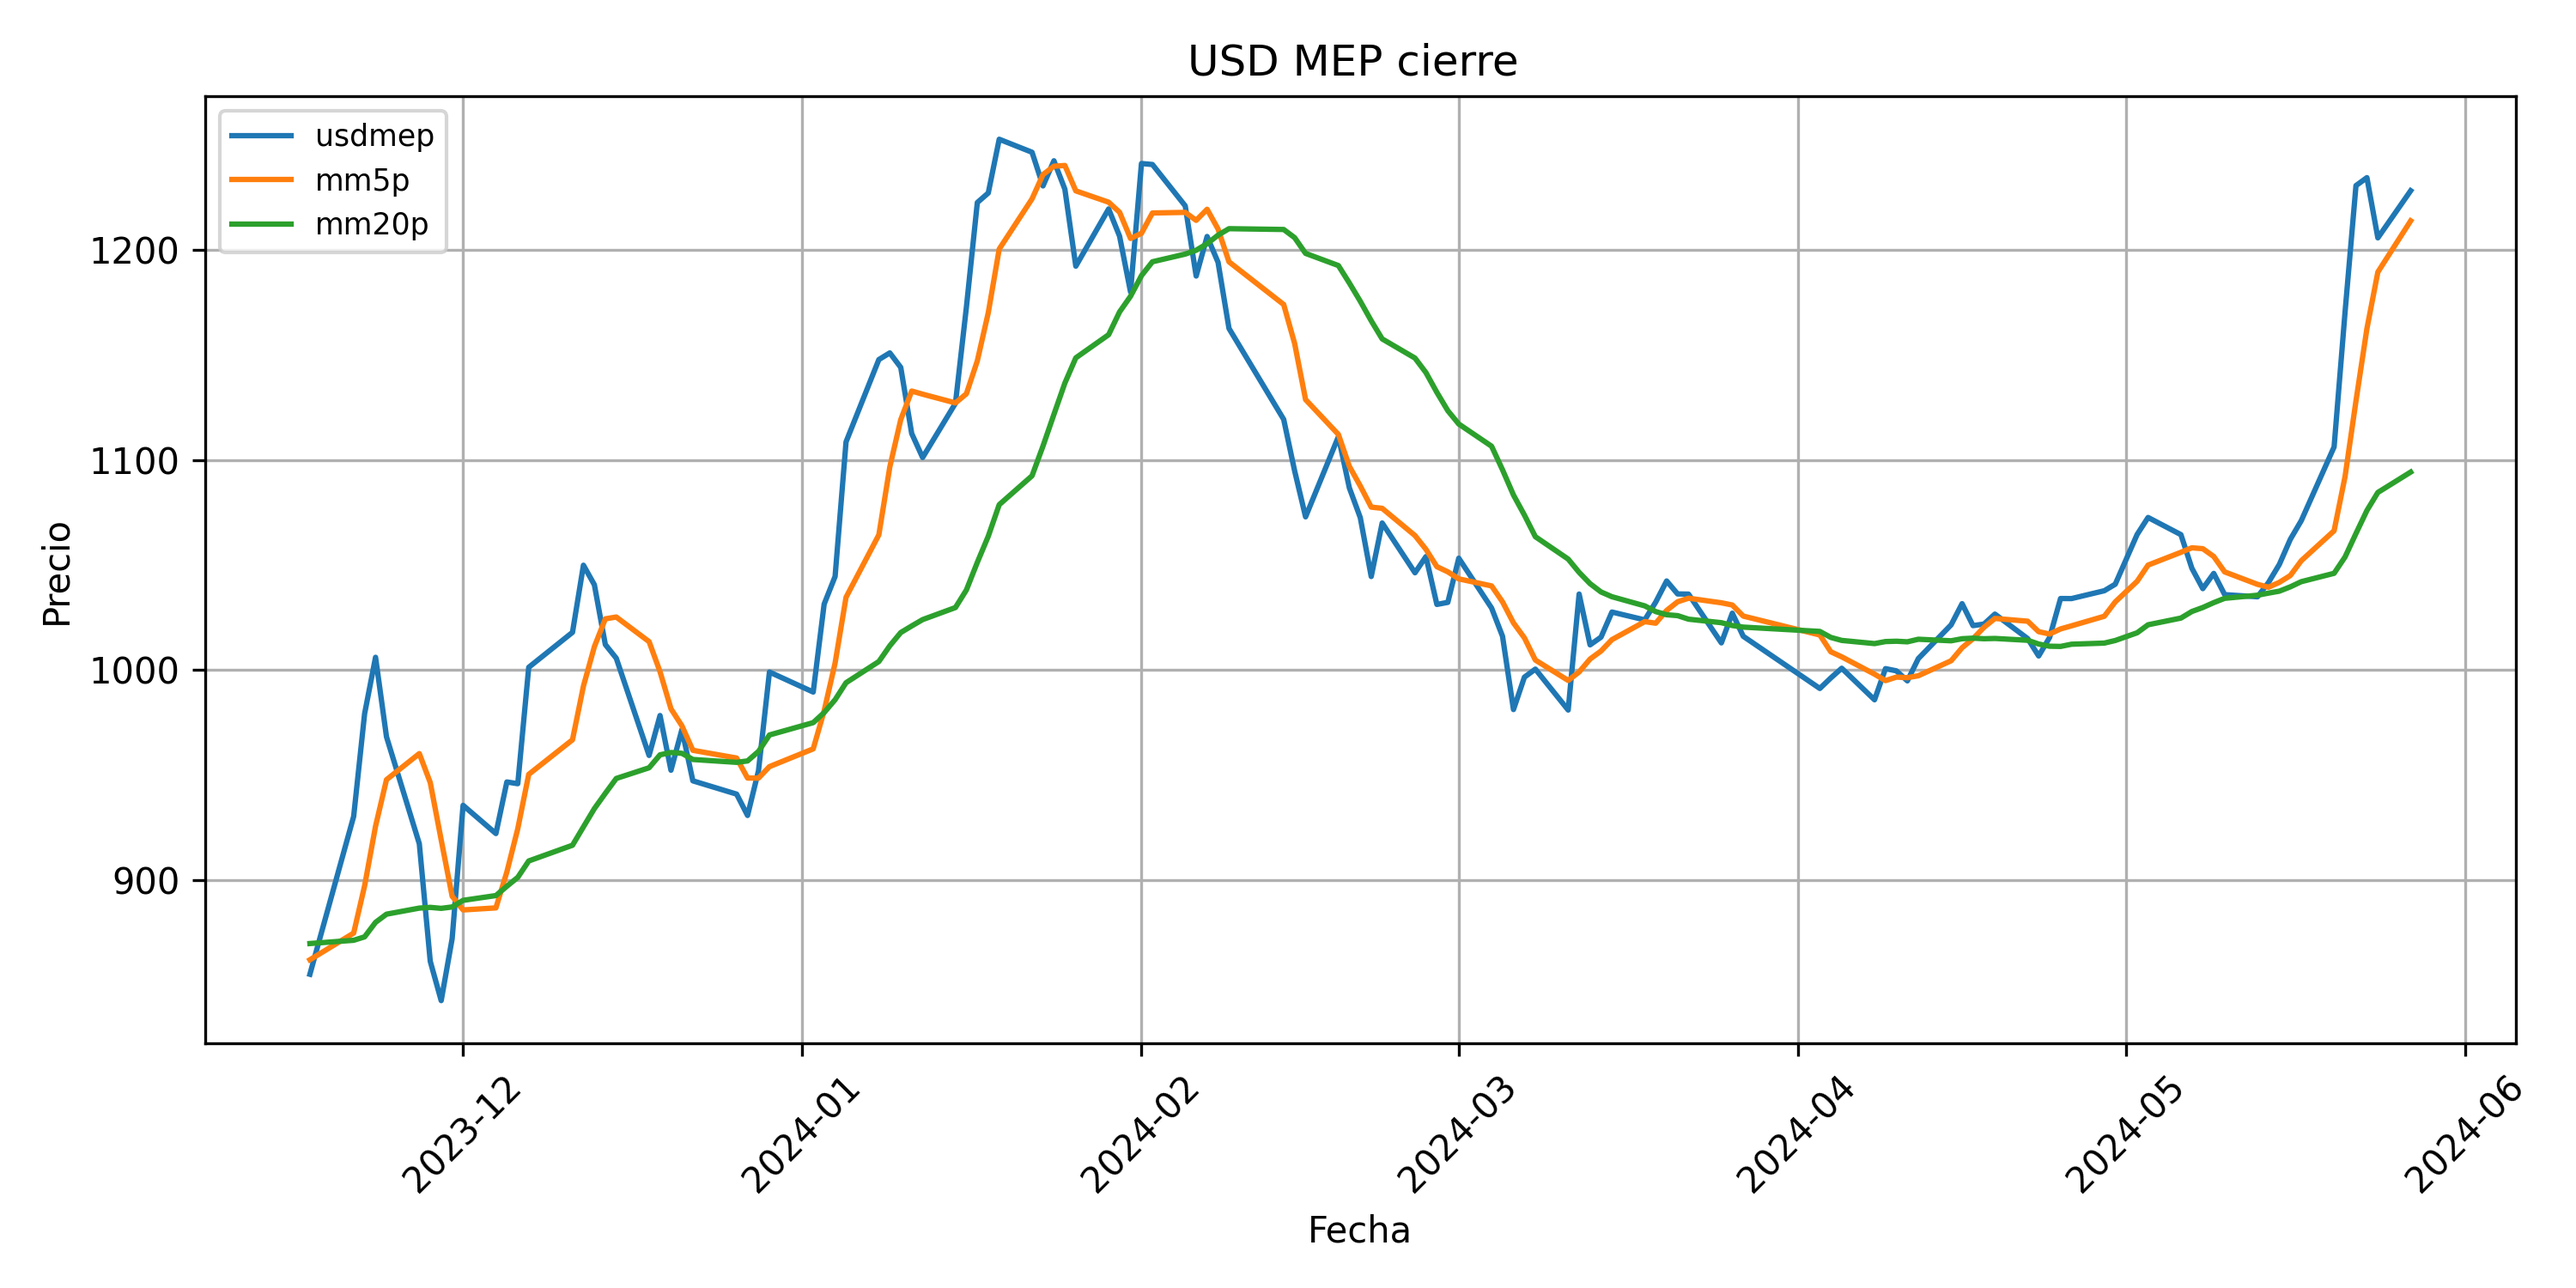
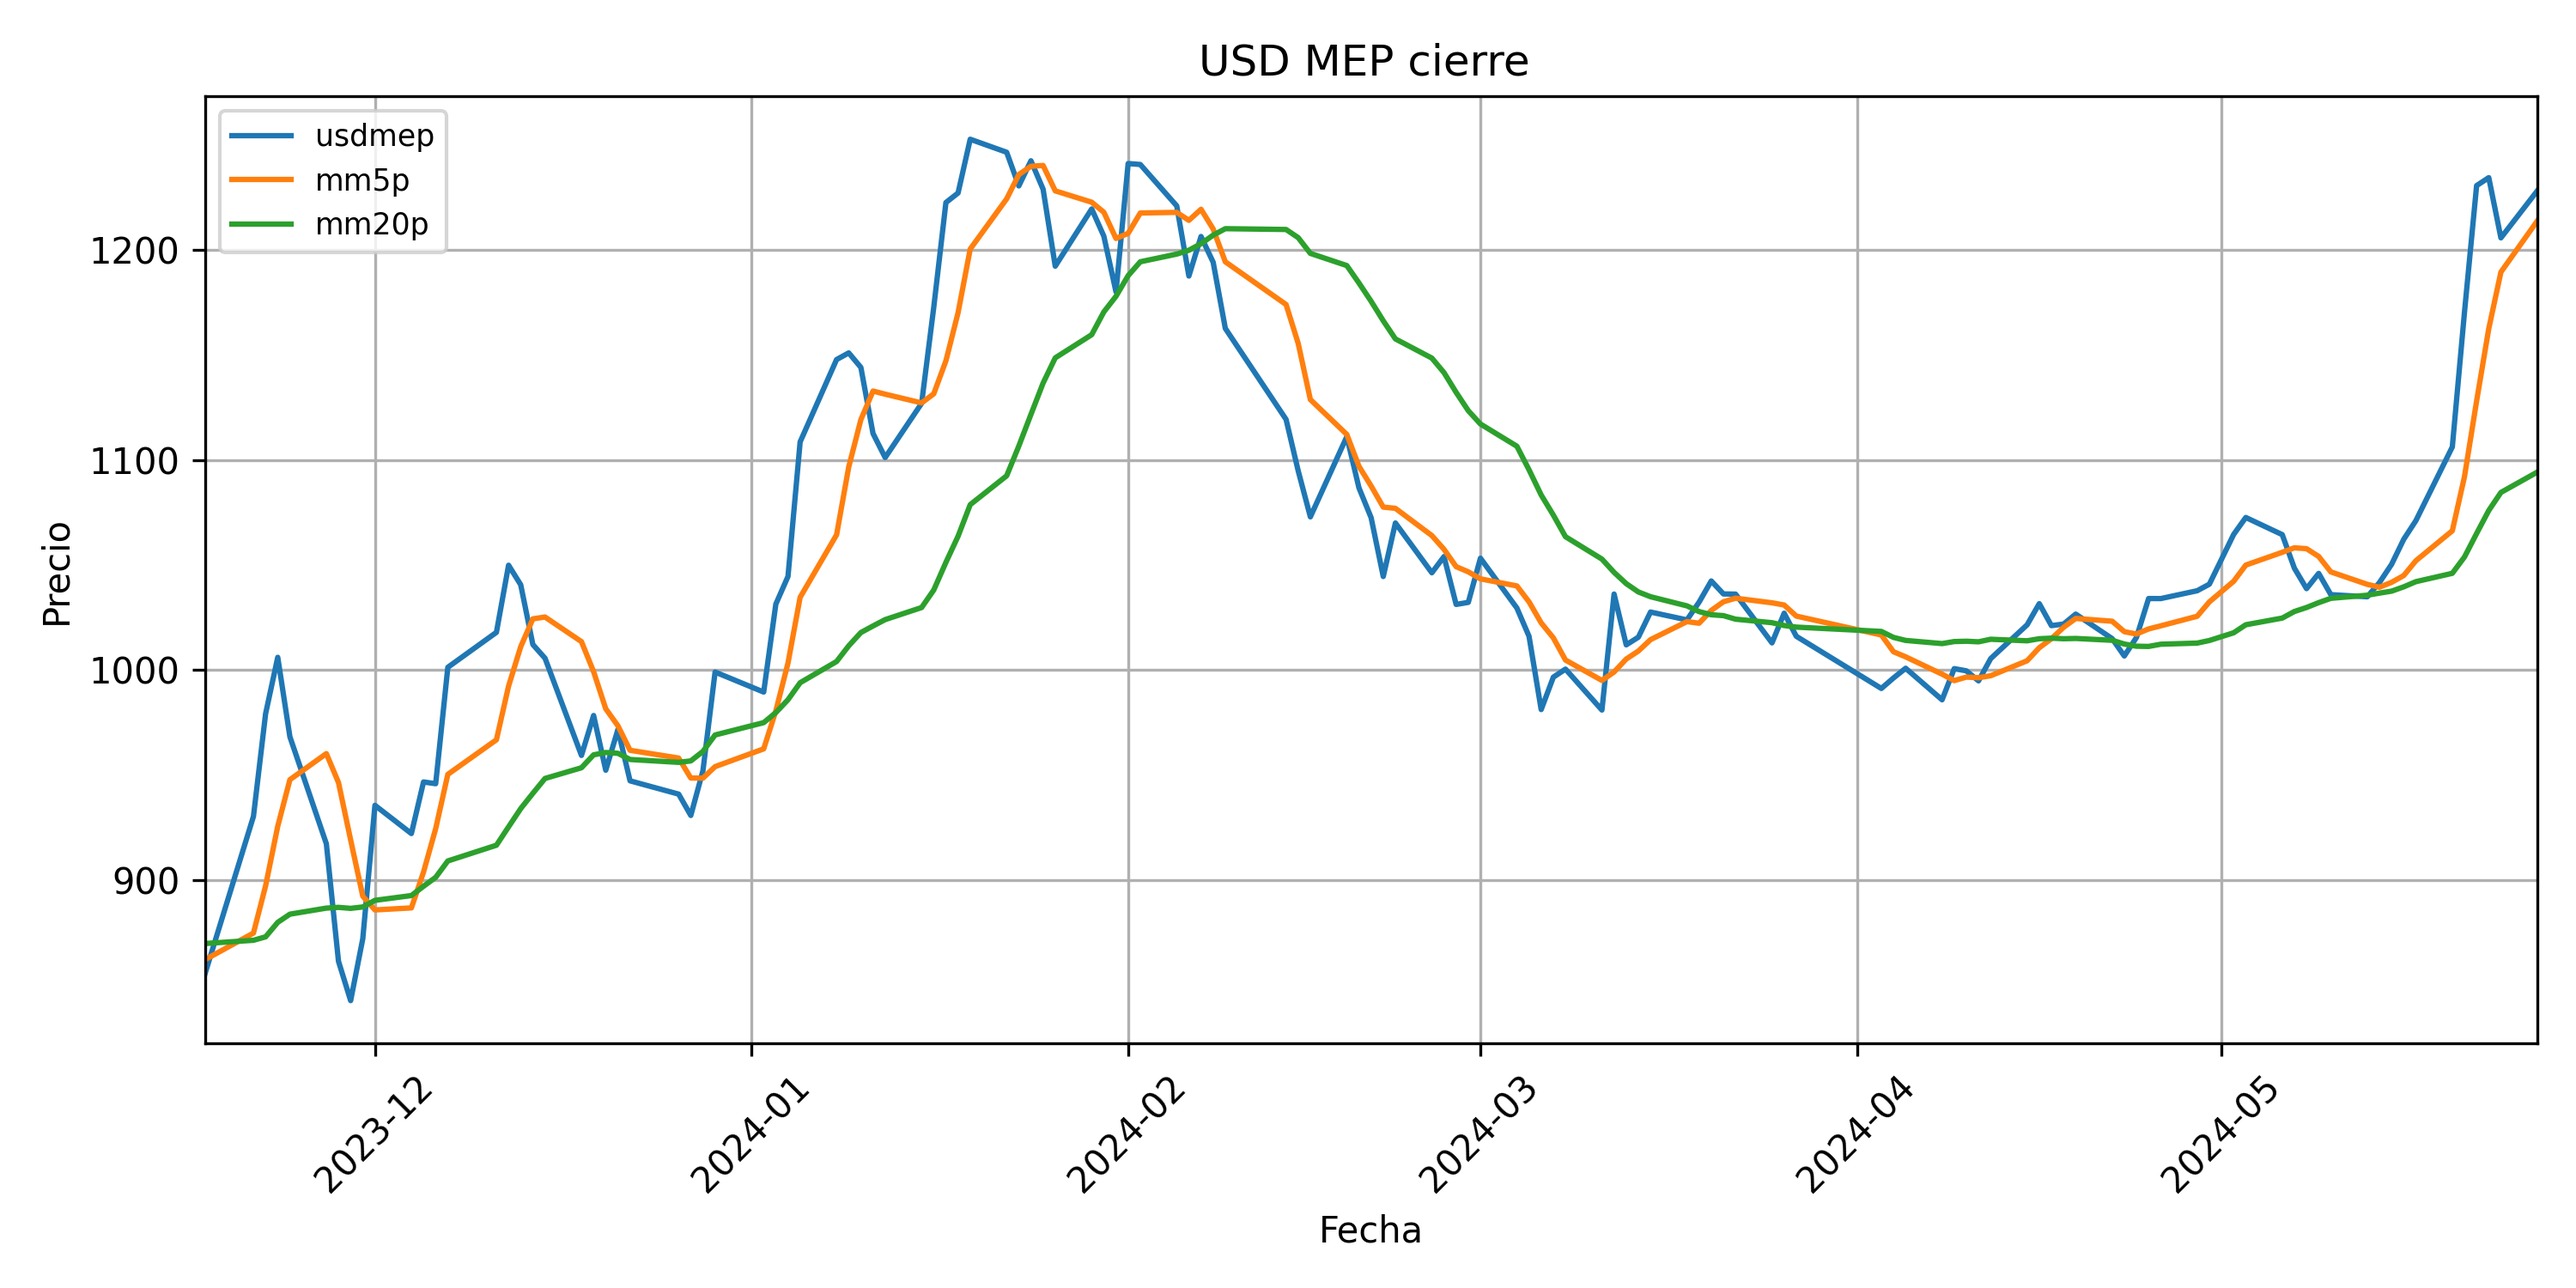
Data output. Corrigiendo notas de funciones output

diff --git a/data_output/plot.py b/data_output/plot.py
@@ -5,9 +5,10 @@ import matplotlib.pyplot as plt
 
 def plot_close(df,name):
     """
-        Función para graficar los precios del cierre
+        Función para realizar gráfico de precios de cierre completo
         Parámetros:
             df (dataframe) : dataframe que debe contar con las columnas 'fecha' y 'usdmep'
+            name (str) : nombre de titulo y con el que se desea guardar el archivo
     """
     # Configuración del gráfico
     plt.figure(figsize=(10, 5))
@@ -18,7 +19,7 @@ def plot_close(df,name):
     plt.xticks(rotation=45)
     plt.grid(True)  # Mostrar cuadrícula en el gráfico
     plt.legend(loc='upper left', fontsize='small')
-
+    plt.xlim(df['fecha'].min(),df['fecha'].max())
     # Ajustar diseño del gráfico
     plt.tight_layout()
 
@@ -26,20 +27,25 @@ def plot_close(df,name):
 
 def plot_line(df,columns, name):
     """
-        Función para graficar los precios del 
+        Función para realizar gráfico de línea de los últimos 126 peridos(medio año) 
         Parámetros:
-            df (dataframe) : dataframe que debe contar con las columnas 'fecha' y 'usdmep'
+            df (dataframe) : DataFrame
+            columns (str): Debe indicar las columnas a graficar
+            name (str): Nombre de título y de archivo con el que queremos que se guarde
+        Return:
+            plot.png: Archivo .png con el gráfico realizado en 
     """
+
     # Configuración del gráfico
     plt.figure(figsize=(10, 5))
     plt.plot(df['fecha'].tail(126),df[columns].tail(126), linestyle='-', label=columns)
-    plt.title(f'{name} cierre ')
+    plt.title(f'{name}')
     plt.xlabel('Fecha')
     plt.ylabel('Precio')
     plt.xticks(rotation=45)
     plt.grid(True)  # Mostrar cuadrícula en el gráfico
     plt.legend(loc='upper left', fontsize='small')
-
+    plt.xlim(df['fecha'].tail(126).min(),df['fecha'].tail(126).max())
     # Ajustar diseño del gráfico
     plt.tight_layout()
 

diff --git a/data_analysis/functions.py b/data_analysis/functions.py
@@ -31,7 +31,7 @@ def quotes_return(df, columna):
             df(dataframe): DataFrame con cálculo de retornos incorporado
     """
     df['retorno'] = np.log(df[columna] / df[columna].shift(1))
-    df = df.dropna(subset='retorno')
+    
     return df
 
 
